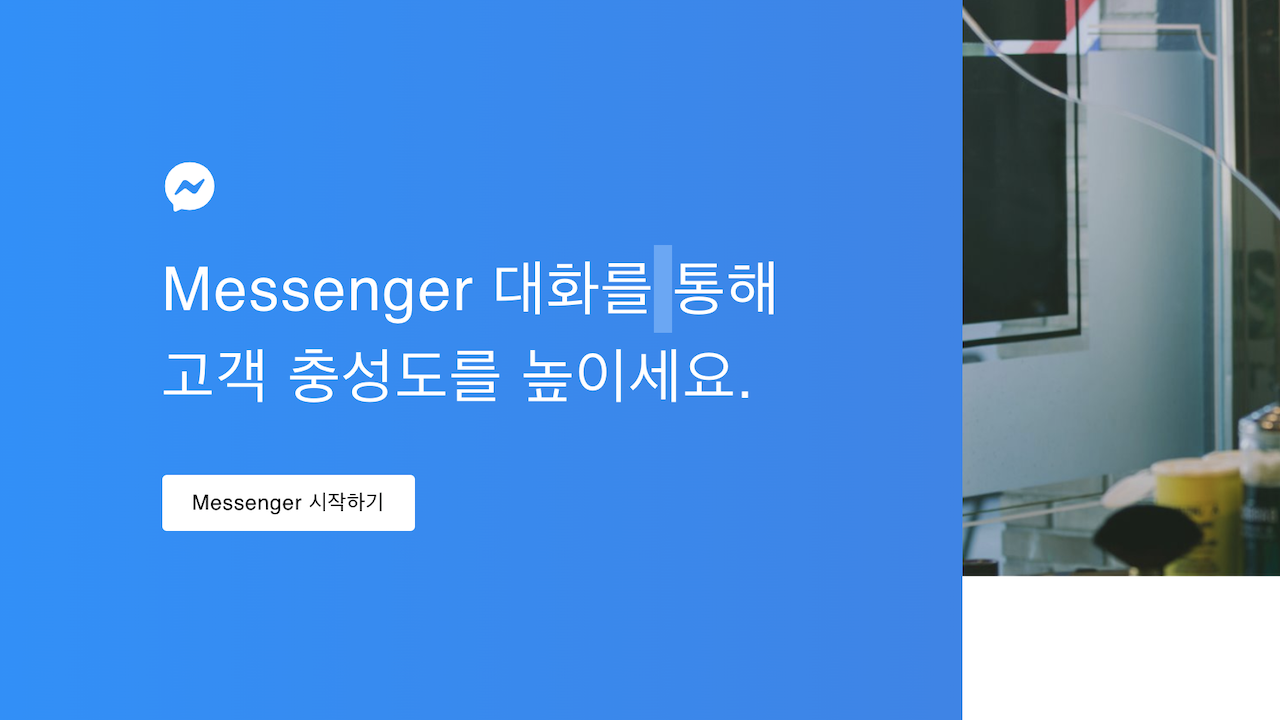
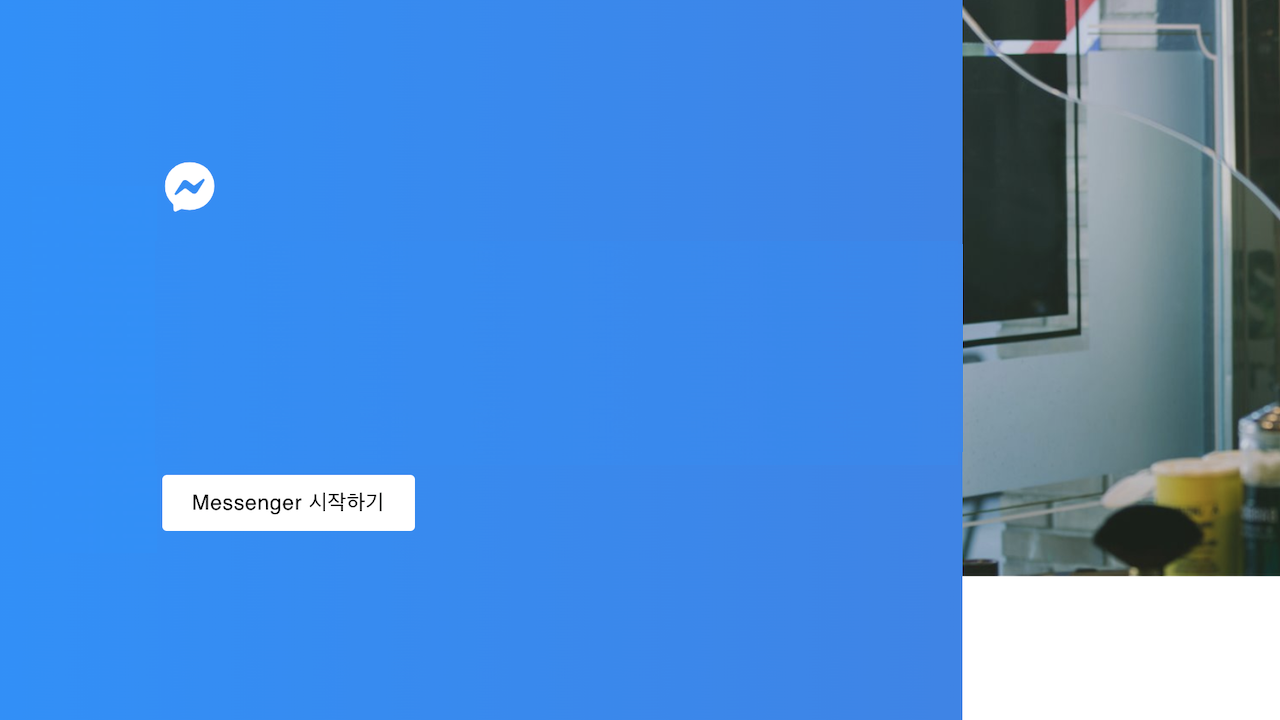
post8_수정4

Changed region(s): [[0.125, 0.3361, 0.625, 0.4583], [0.125, 0.4889, 0.5938, 0.5806]]

diff --git a/_posts/2020-05-03-mkt-facebookmessenger.md b/_posts/2020-05-03-mkt-facebookmessenger.md
@@ -45,8 +45,6 @@ description: '페이스북 메신저 플러그인 설치하는 간단한 방법'
 ![페이스북메신저설치하기1](/img/posts/008/02.png)
 
 
-![페이스북메신저설치하기2](/img/posts/008/03.png)
-
 ## Step 3. 페이스북 메신저 픽셀 코드 설치하기
 1. 내 도메인 주소를 'https' 포함하여 입력하고 저장하기
 2. '코드 직접 설치'를 클릭하여 우측의 코드를 복사하기
@@ -59,7 +57,7 @@ description: '페이스북 메신저 플러그인 설치하는 간단한 방법'
 2-3분 정도 뒤에 내 사이트에 접속하셔서 우측 하단에 페이스북 메신저 버튼이 활성화되는지 확인해보세요!
 
 ------
-### 이제 페이스북 메신저를 어떻게 활용할 수 있을지 살펴볼게요!
+### 이제 페이스북 메신저를 어떻게 활용할 수 있을지 살펴볼게요!   
 
 
 ## 페이스북 메신저 광고 활용
